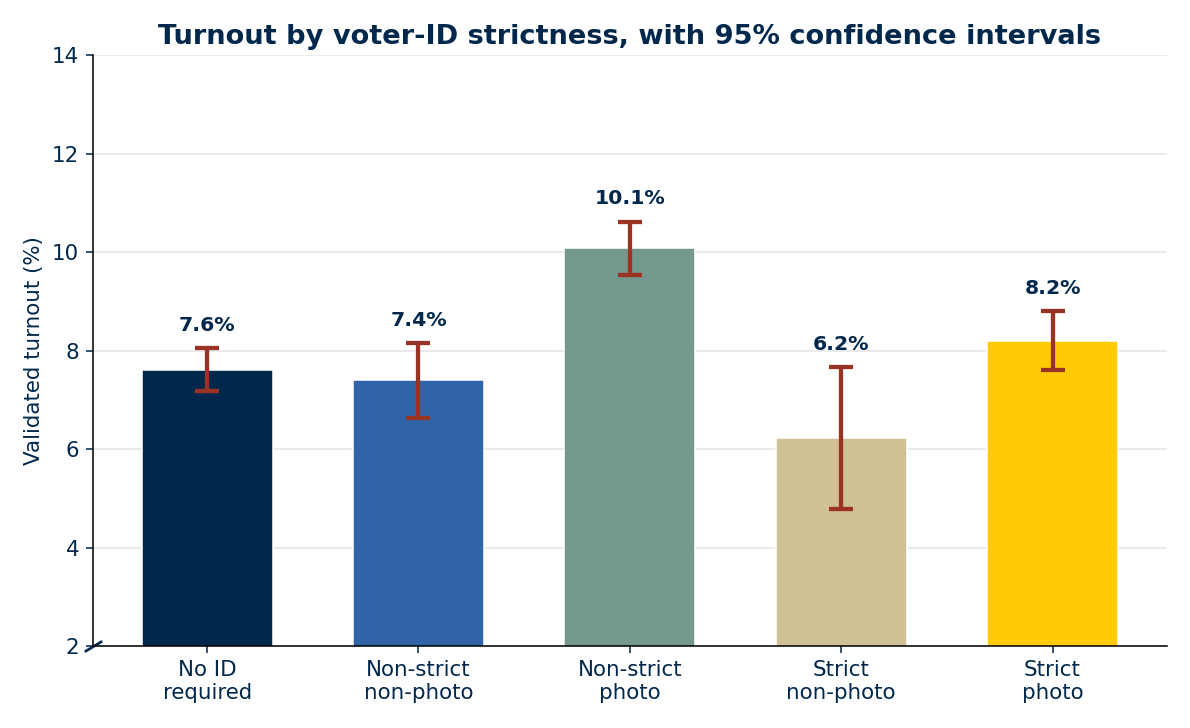
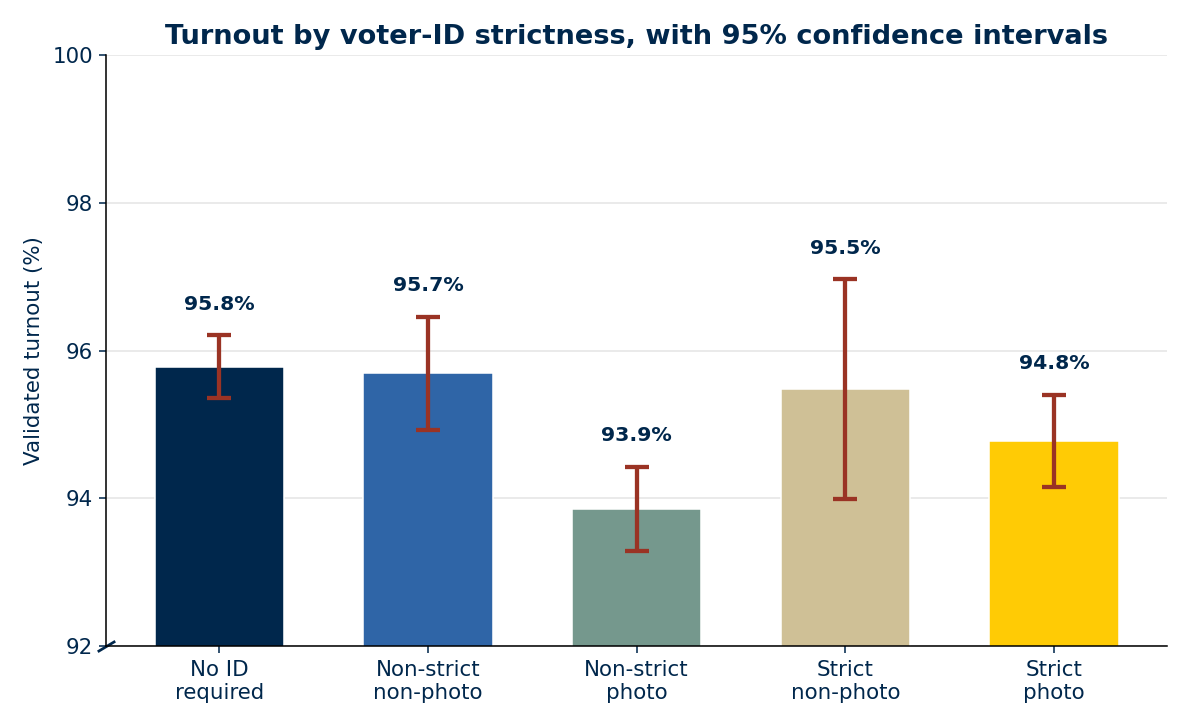
Updated figures with data cleaning

diff --git a/capstone/data_cleaning.py b/capstone/data_cleaning.py
@@ -148,9 +148,9 @@ def load_voter_id_effect(data_path: Path) -> DataFrame:
     df["NCSL Classification"] = df["NCSL Classification"].astype(int).astype(str)
 
     classification_map = {
-        "5": "Strict Photo ID",
-        "4": "Strict Non-Photo ID",
-        "3": "Non-Strict Photo ID",
+        "5": "Strict, Photo ID",
+        "4": "Strict, Non-Photo ID",
+        "3": "Non-Strict, Photo ID",
         "2": "Non-Strict, Non-Photo ID",
         "1": "No Document Required to Vote",
     }
@@ -190,6 +190,7 @@ def clean_ces_data(df: DataFrame, config: dict[Any, Any]) -> DataFrame:
     df = df.dropna(subset=["TS_voterstatus"])
 
     # Determine who voted
+    # 7 is did not vote
     df["Voted"] = (df["TS_g2024"] != 7).astype(int)
     df["Age"] = 2024 - df["Birth Year"]
 

diff --git a/capstone/visualization/report_fig4_real.py b/capstone/visualization/report_fig4_real.py
@@ -1,0 +1,16 @@
+# """
+# Script to generate figure that describes turnout by voter-ID law strictness, on the 2024 CES data.
+
+# Output:
+#   figures/report_fig4_turnout_by_strictness.png
+# """
+
+# import matplotlib as mpl
+# import matplotlib.pyplot as plt
+# import numpy as np
+# from pandas import DataFrame
+# from pathlib import Path
+
+# from capstone.helper_functions import load_local_config, load_model_config
+# from capstone.data_cleaning import load_full_dataframe
+# from capstone.visualization.visuals import Y_LABEL, OUTPUT_DIR, PLT_PARAMS, ColorScheme, compute_turnout_by_category

diff --git a/capstone/visualization/report_fig5_real.py b/capstone/visualization/report_fig5_real.py
@@ -1,0 +1,15 @@
+# """
+# Script to generate figure that describes turnout by voter-ID law strictness, on the 2024 CES data.
+
+# Output:
+#   figures/report_fig5_turnout_by_strictness.png
+# """
+# import matplotlib as mpl
+# import matplotlib.pyplot as plt
+# import numpy as np
+# from pandas import DataFrame
+# from pathlib import Path
+
+# from capstone.helper_functions import load_local_config, load_model_config
+# from capstone.data_cleaning import load_full_dataframe
+# from capstone.visualization.visuals import Y_LABEL, OUTPUT_DIR, PLT_PARAMS, ColorScheme, compute_turnout_by_category

diff --git a/capstone/visualization/report_fig3_real.py b/capstone/visualization/report_fig3_real.py
@@ -17,9 +17,9 @@ ORDER = [
 LABEL = {
     "No Document Required to Vote": "No ID\nrequired",
     "Non-Strict, Non-Photo ID": "Non-strict\nnon-photo",
-    "Non-Strict Photo ID": "Non-strict\nphoto",
-    "Strict Non-Photo ID": "Strict\nnon-photo",
-    "Strict Photo ID": "Strict\nphoto",
+    "Non-Strict, Photo ID": "Non-strict\nphoto",
+    "Strict, Non-Photo ID": "Strict\nnon-photo",
+    "Strict, Photo ID": "Strict\nphoto",
 }
 TWO_HUE = [ColorScheme.GREY, ColorScheme.UM_BLUE]
 

diff --git a/capstone/visualization/report_fig1_real.py b/capstone/visualization/report_fig1_real.py
@@ -28,9 +28,9 @@ ORDER = [
 LABEL = {
     "No Document Required to Vote": "No ID\nrequired",
     "Non-Strict, Non-Photo ID": "Non-strict\nnon-photo",
-    "Non-Strict Photo ID": "Non-strict\nphoto",
-    "Strict Non-Photo ID": "Strict\nnon-photo",
-    "Strict Photo ID": "Strict\nphoto",
+    "Non-Strict, Photo ID": "Non-strict\nphoto",
+    "Strict, Non-Photo ID": "Strict\nnon-photo",
+    "Strict, Photo ID": "Strict\nphoto",
 }
 
 mpl.rcParams.update(PLT_PARAMS)  # type: ignore
